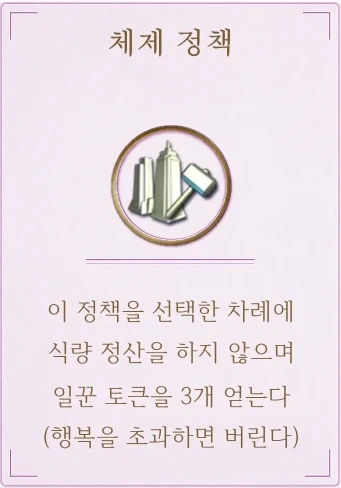
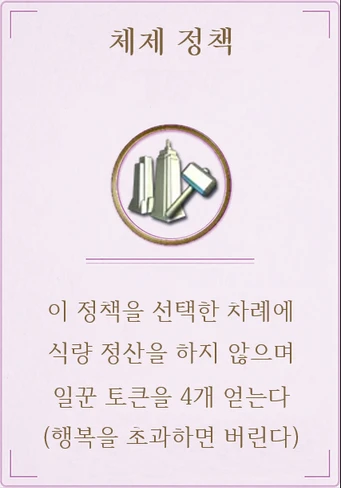
체제 정책: 일꾼 4개 (카드 그림·데이터·규칙서 반영)
Claude-Session: https://claude.ai/code/session_01RAyYJg3yqsP1EQBtC7udPM

diff --git a/src/ui/panels/PendingPanel.tsx b/src/ui/panels/PendingPanel.tsx
@@ -1,7 +1,7 @@
 import { CityTag } from '../icons'
 import { useState } from 'react'
 import type { PolicyId } from '../../engine'
-import { MILITARY_CARDS, civById, happiness, producible, totalWorkers } from '../../engine'
+import { MILITARY_CARDS, REGIME_WORKERS, civById, happiness, producible, totalWorkers } from '../../engine'
 import { PolicyCard } from '../cards/PolicyCard'
 import { CityBuilder } from './CityBuilder'
 import type { PanelProps } from './types'
@@ -25,14 +25,14 @@ export function PendingPanel({ game, player, dispatch }: PanelProps) {
   const workers = totalWorkers(player)
   const cap = player.cities.length ? happiness(player) : 0
   // 전통: 일꾼이 3개 이상이면 자동으로 "일꾼 3개 버리고 문화 2"로 처리한다. 버릴 도시는 도시를 눌러 한 명씩 고른다.
-  // 체제: 행복 한도 안에서 일꾼을 최대 3개 얻는다. 일꾼 1개마다 붙일 도시를 눌러 고른다 (도시가 하나면 바로 처리).
+  // 체제: 행복 한도 안에서 일꾼을 최대 4개 얻는다. 일꾼 1개마다 붙일 도시를 눌러 고른다 (도시가 하나면 바로 처리).
   const [alloc, setAlloc] = useState<{ policy: 'tradition' | 'regime'; need: number; counts: Record<number, number> } | null>(null)
   const taken = alloc ? Object.values(alloc.counts).reduce((n, v) => n + v, 0) : 0
   const choose = (id: PolicyId, extra?: { discard?: { cityId: number; count: number }[]; addWorkers?: { cityId: number; count: number }[] }) => {
     const [cityId, tileId] = dismiss ? dismiss.split(':').map(Number) : []
     dispatch({ type: 'choosePolicy', policy: id, ...extra, dismiss: id === 'diplomacy' && dismiss ? { cityId, tileId } : undefined })
   }
-  const regimeGain = Math.min(3, Math.max(0, cap - workers))
+  const regimeGain = Math.min(REGIME_WORKERS, Math.max(0, cap - workers))
   const pick = (id: PolicyId) => {
     if (id === 'tradition' && workers >= 3) setAlloc({ policy: 'tradition', need: 3, counts: {} })
     else if (id === 'regime' && regimeGain > 0 && player.cities.length > 1) setAlloc({ policy: 'regime', need: regimeGain, counts: {} })

diff --git a/src/engine/__tests__/stage2.test.ts b/src/engine/__tests__/stage2.test.ts
@@ -75,10 +75,10 @@ describe('정책', () => {
     expect(() => apply(s, { type: 'choosePolicy', policy: 'tradition', discard: [{ cityId: 0, count: 2 }] })).toThrow(RuleError)
   })
 
-  it('체제: 일꾼 3개를 얻되 행복(덴마크 5)을 넘으면 버린다', () => {
+  it('체제: 일꾼 4개를 얻되 행복(덴마크 5)을 넘으면 버린다', () => {
     let s = mod(toProduce(solo()), (c) => (c.players[0].pendingPolicies = 1))
     s = apply(s, { type: 'choosePolicy', policy: 'regime' })
-    expect(me(s).cities[0].workers).toBe(4) // 1 + 3 (행복 5 이내)
+    expect(me(s).cities[0].workers).toBe(5) // 1 + 4 (행복 5 이내)
     let t = mod(toProduce(solo('korea')), (c) => (c.players[0].pendingPolicies = 1))
     t = apply(t, { type: 'choosePolicy', policy: 'regime' })
     expect(me(t).cities[0].workers).toBe(3) // 행복 3이 한도
@@ -92,7 +92,7 @@ describe('정책', () => {
         p.cities.push({ ...structuredClone(p.cities[0]), id: 1, workers: 1, placed: [] })
       })
     const s0 = two()
-    const gain = Math.min(3, happiness(me(s0)) - totalWorkers(me(s0)))
+    const gain = Math.min(4, happiness(me(s0)) - totalWorkers(me(s0)))
     expect(gain).toBeGreaterThanOrEqual(2)
     const before = me(s0).cities.map((c) => c.workers)
     // 도시1에 1개, 나머지는 도시2에

diff --git a/src/engine/policies.ts b/src/engine/policies.ts
@@ -6,6 +6,9 @@ import { gainCulture, say } from './core'
 import { happiness, totalWorkers } from './yields'
 import { gainGeneral } from './military'
 
+/** 체제 정책으로 얻는 일꾼 수 (행복 한도 안에서) */
+export const REGIME_WORKERS = 4
+
 export function choosePolicy(
   s: GameState,
   p: Player,
@@ -44,8 +47,8 @@ export function choosePolicy(
       break
     case 'regime': {
       turn.skipFoodSettle = true
-      // 일꾼 3개를 얻되 행복 한도를 넘는 만큼은 못 얻는다. 일꾼 1개마다 어느 도시에 붙일지 고른다 (고르지 않으면 첫 도시)
-      const gain = Math.min(3, Math.max(0, happiness(p) - totalWorkers(p)))
+      // 일꾼 4개를 얻되 행복 한도를 넘는 만큼은 못 얻는다. 일꾼 1개마다 어느 도시에 붙일지 고른다 (고르지 않으면 첫 도시)
+      const gain = Math.min(REGIME_WORKERS, Math.max(0, happiness(p) - totalWorkers(p)))
       if (addWorkers?.length) {
         const total = addWorkers.reduce((n, a) => n + a.count, 0)
         if (total !== gain || addWorkers.some((a) => !Number.isInteger(a.count) || a.count < 0 || !p.cities.some((c) => c.id === a.cityId))) {

diff --git a/docs/rules.md b/docs/rules.md
@@ -445,7 +445,7 @@
   전제정치         고를 때마다 위대한 장군 토큰 1개를 얻고, 시행 중에는
                    선전포고에 일꾼이 필요 없습니다
 
-  체제             고른 차례에는 식량 정산을 하지 않습니다. 일꾼 3개를
+  체제             고른 차례에는 식량 정산을 하지 않습니다. 일꾼 4개를
                    얻습니다 (행복을 넘으면 버림)
 
   자유             시행 중에는 식량이 모자라도 일꾼을 잃지 않습니다
